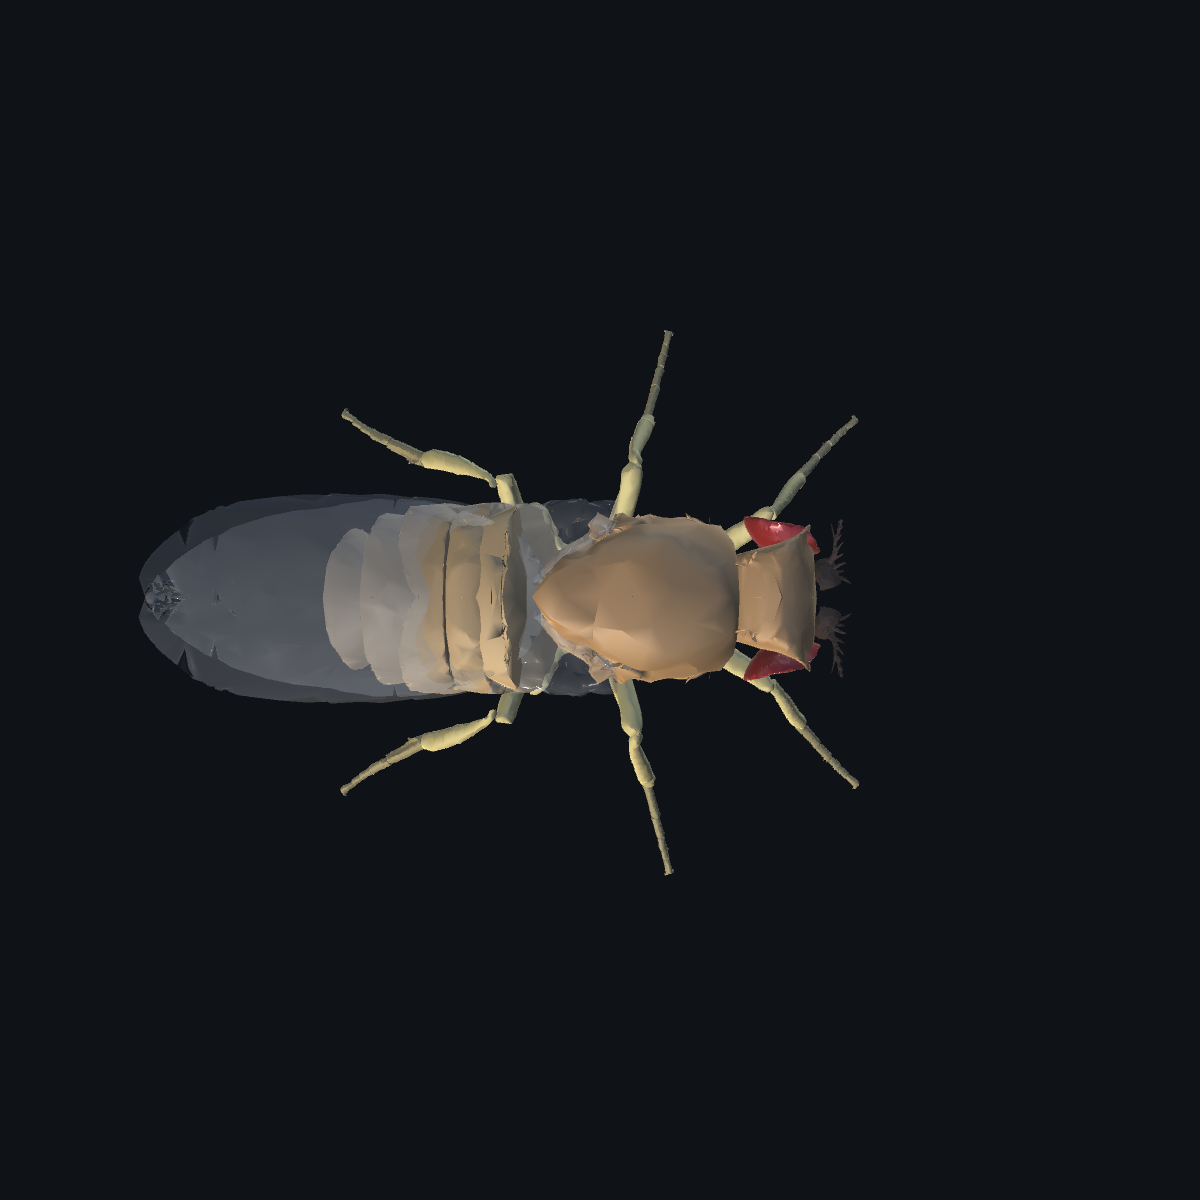
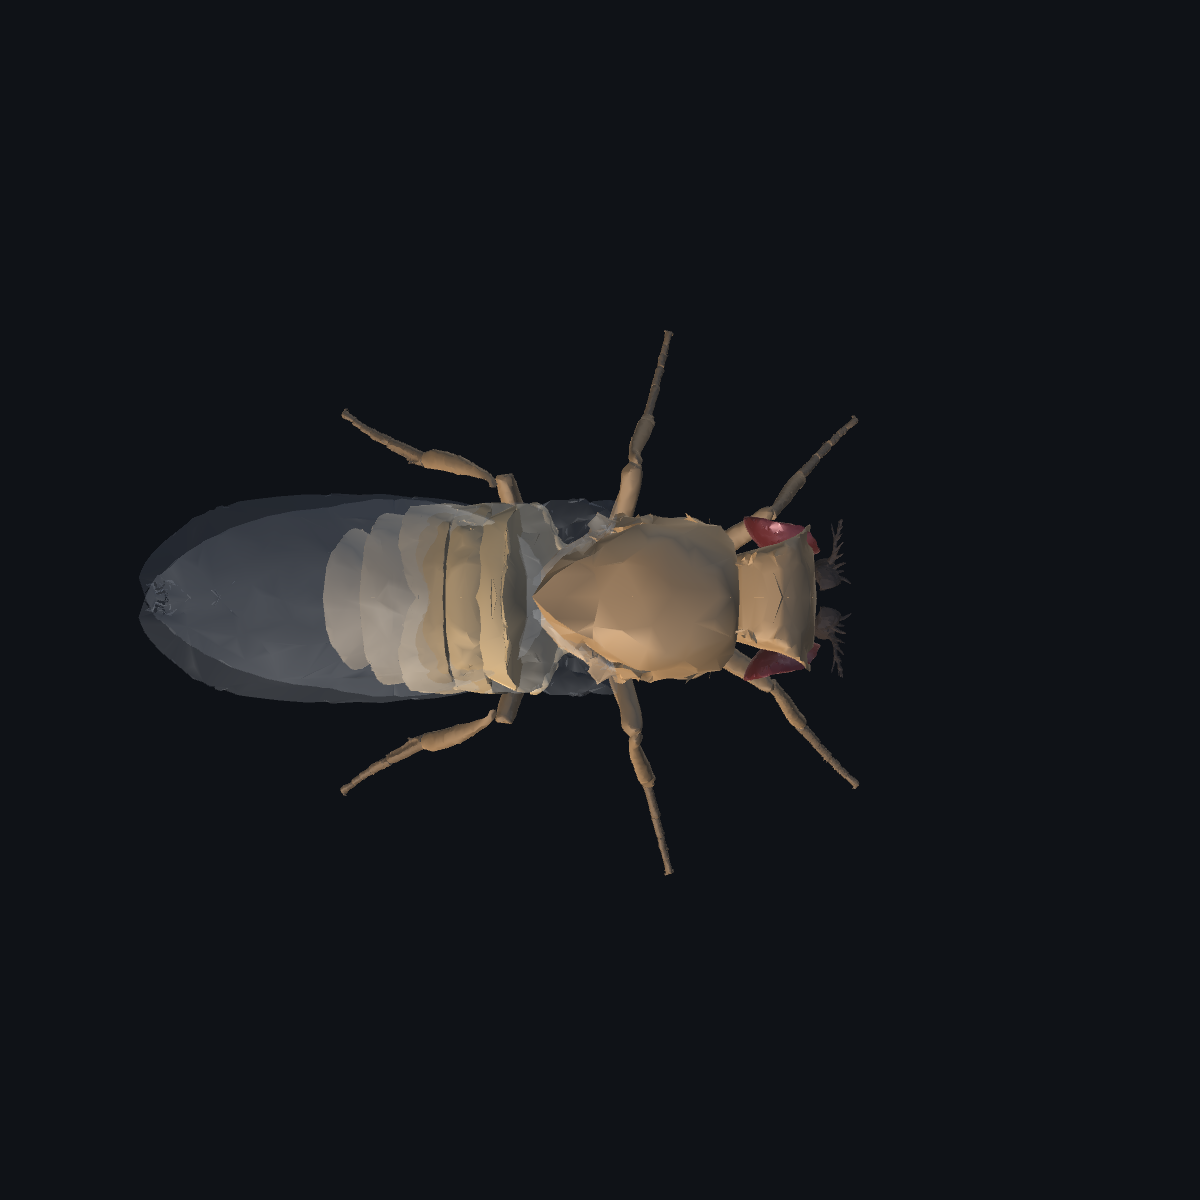
feat: material pass on the Drosophila palette
Ultimo passe visual. Geometria, transforms, hierarquia e dados cientificos
intactos -- so material, normal e luz.

PERNAS. Eram #EEDC82, amarelo palido; contra o #C68E4F do torax isso lia como
dois animais colados. Agora sao o proprio torax puxado 22% pro escuro: mesma
familia cromatica, um degrau abaixo do corpo. Tarso 28% mais escuro que o resto
da perna, dentro da faixa pedida.

OLHOS. Vinho/rubi (0,40 0,06 0,07) no lugar do vermelho vivo. O que faz o olho
ler como olho nao e a cor, e o contraste de resposta especular: lisura 0,66
contra ~0,34 da cuticula, com metallic 0,04 de realce. Sem emission.

Estrutura de omatideo NAO foi sugerida. Precisaria de mapa de normal ou de
detalhe, e as malhas nao tem UV -- saem do MuJoCo so com vertice e face, e sem
UV qualquer textura cai em lugar arbitrario. Inventar UV planar aqui seria
desenhar estrutura que ninguem mediu.

ASAS. Alfa 0,30 -> 0,22 e lisura 0,88 -> 0,55. Com 0,88 a asa virava uma faixa
especular quase branca de um lado e uma placa escura do outro, que e o oposto
de membranosa. Especular suave espalha o brilho ao longo da lamina. Segue em
alpha blend simples com ZWrite off na fila Transparent -- sao dois renderers
que se ordenam por distancia, sem artefato observado.

NERVURA continua nao existindo. Medido: a malha da asa e uma lamina fechada,
espessura 7,6% do comprimento, sem estrutura de nervura separada. O relevo que
ha e a borda e ruido de decimacao.
[…]

diff --git a/unity/DrosobotLab/Assets/Scripts/Lab/FlyAppearance.cs b/unity/DrosobotLab/Assets/Scripts/Lab/FlyAppearance.cs
@@ -86,18 +86,28 @@ namespace Drosobot.Lab
             haltere = Rgb(0.799f, 0.610f, 0.386f),                   // lower
         };
 
-        // Paleta Drosophila: tons claros de cuticula, olho tijolo, asa quase
+        // Paleta Drosophila: tons claros de cuticula, olho rubi, asa quase
         // incolor. Mais clara que a do flybody, que no fundo escuro do Lab
-        // tende a fechar. Escolhida a olho.
+        // tende a fechar. Escolhida a olho -- nao e reconstrucao medida.
         private static readonly Paleta DeDrosophila = new Paleta
         {
             cuticula = Rgb(0.78f, 0.56f, 0.31f),   // #C68E4F
             torax = Rgb(0.78f, 0.56f, 0.31f),      // #C68E4F
             abdomen = Rgb(0.87f, 0.70f, 0.44f),    // #DEB887
-            perna = Rgb(0.93f, 0.86f, 0.51f),      // #EEDC82
-            olho = Rgb(0.65f, 0.11f, 0.11f),       // #A61C1C
-            asa = new Color(0.92f, 0.94f, 0.95f, 0.30f),  // #EAF0F1
-            haltere = Rgb(0.93f, 0.86f, 0.51f),
+            // A perna era #EEDC82, amarelo palido: contra o #C68E4F do torax
+            // isso lia como dois animais colados. Agora e o proprio torax
+            // puxado 22% pro escuro -- mesma familia cromatica, um degrau
+            // abaixo do corpo, que e o que da continuidade da coxa ao tarso.
+            perna = Color.Lerp(Rgb(0.78f, 0.56f, 0.31f), Rgb(0.10f, 0.05f, 0.03f),
+                               0.22f),
+            // vinho/rubi: o #A61C1C anterior era vermelho vivo e chapado.
+            // Escurecido, que e como o olho composto responde a luz que nao
+            // bate de frente.
+            olho = Rgb(0.40f, 0.06f, 0.07f),
+            asa = new Color(0.86f, 0.89f, 0.92f, 0.22f),
+            // haltere acompanha o abdomen, nao a perna: e o botao palido atras
+            // do torax, nao apendice
+            haltere = Rgb(0.87f, 0.70f, 0.44f),
         };
 
         // Para onde as partes escuras puxam: cerdas, tarsos, banda posterior do
@@ -116,11 +126,13 @@ namespace Drosobot.Lab
             switch (modo)
             {
                 case Aparencia.Clay:
-                    return "cinza 0,5 -- a unica cor que o modelo carrega";
+                    return "DATA -- cinza 0,5, a cor que o modelo carrega";
                 case Aparencia.Flybody:
-                    return "valores do flybody (assets do FlyGym); atribuicao nossa";
+                    return "referencia visual upstream (assets do FlyGym)";
                 default:
-                    return "escolhida a olho; sem procedencia de medicao";
+                    // Nunca chamar de reconstrucao biologica medida: ninguem
+                    // mediu cor de mosca nenhuma pra chegar nestes valores.
+                    return "ASSUMPTION -- paleta de apresentacao";
             }
         }
 
@@ -174,20 +186,31 @@ namespace Drosobot.Lab
 
             if (cat == "olho")
             {
-                // olho composto: liso, mais brilhante que a cuticula. E o que
-                // mais denuncia uma mosca de verdade numa imagem.
-                Ajusta(m, p.olho, 0.78f);
+                // Olho composto. A lisura fica BEM acima da cuticula (0,66
+                // contra ~0,34): e o contraste de resposta especular entre os
+                // dois, mais que a cor, que faz o olho ler como olho.
+                //
+                // Estrutura de omatideo nao da pra sugerir aqui. Precisaria de
+                // mapa de normal ou de detalhe, e as malhas nao tem UV -- saem
+                // do MuJoCo so com vertice e face. Sem UV qualquer textura cai
+                // em lugar arbitrario. Fica no especular, que nao custa nada e
+                // nao inventa estrutura.
+                Ajusta(m, p.olho, 0.66f);
+                m.SetFloat("_Metallic", 0.04f);   // realce, nao aspecto de metal
             }
             else if (cat == "asa")
             {
-                // membrana: quase transparente e com especular alto, que e o
-                // que da a leitura de "fina" sem nervura nenhuma
-                Ajusta(m, p.asa, 0.88f);
+                // Membrana. Alfa mais baixo (0,22) e lisura MENOR (0,55) que a
+                // versao anterior: com 0,88 a asa virava uma faixa especular
+                // quase branca de um lado e uma placa escura do outro, que e o
+                // oposto de membranosa. Especular suave espalha o brilho ao
+                // longo da lamina.
+                Ajusta(m, p.asa, 0.55f);
                 Transparente(m);
             }
             else if (cat == "haltere")
             {
-                Ajusta(m, p.haltere, 0.35f);
+                Ajusta(m, p.haltere, 0.32f);
             }
             else if (cat == "cerda")
             {
@@ -197,11 +220,11 @@ namespace Drosobot.Lab
             {
                 // extremidade mais escura: e assim na mosca e ajuda a leitura
                 // de onde a perna termina contra o chao escuro
-                Ajusta(m, Color.Lerp(p.perna, Escuro, 0.35f), 0.30f);
+                Ajusta(m, Color.Lerp(p.perna, Escuro, 0.28f), 0.26f);
             }
             else if (cat == "perna")
             {
-                Ajusta(m, p.perna, 0.22f);
+                Ajusta(m, p.perna, 0.26f);
             }
             else if (cat.StartsWith("abdomen"))
             {
@@ -210,15 +233,17 @@ namespace Drosobot.Lab
                 // corpos do modelo, entao a faixa sai da geometria.
                 int i = cat.Length > 7 ? cat[7] - '0' : 2;
                 float t = Mathf.InverseLerp(2f, 6f, i);
-                Ajusta(m, Color.Lerp(p.abdomen, Escuro, 0.42f * t), 0.30f);
+                // abdomen mais FOSCO que o torax: no torax a cuticula e
+                // esclerotizada e acetinada, no abdomen e membranosa
+                Ajusta(m, Color.Lerp(p.abdomen, Escuro, 0.42f * t), 0.20f);
             }
             else if (cat == "torax")
             {
-                Ajusta(m, p.torax, 0.38f);
+                Ajusta(m, p.torax, 0.36f);      // acetinado, nao plastico
             }
             else
             {
-                Ajusta(m, p.cuticula, 0.30f);   // cabeca, rostro, o resto
+                Ajusta(m, p.cuticula, 0.33f);   // cabeca, rostro, o resto
             }
             return m;
         }
@@ -262,7 +287,9 @@ namespace Drosobot.Lab
             // perto de 1,2 pra que a cor na tela seja a cor do material.
             Luz(pai, "Key", new Color(1.00f, 0.96f, 0.90f), 0.80f, 38f, 40f);
             Luz(pai, "Fill", new Color(0.62f, 0.72f, 0.90f), 0.22f, 12f, -120f);
-            Luz(pai, "Rim", new Color(0.80f, 0.88f, 1.00f), 0.45f, -8f, 190f);
+            // rim so o bastante pra separar asa e perna do fundo; acima
+            // disso a imagem vira retrato de estudio e nao leitura de modelo
+            Luz(pai, "Rim", new Color(0.80f, 0.88f, 1.00f), 0.32f, -8f, 190f);
             RenderSettings.ambientMode = UnityEngine.Rendering.AmbientMode.Trilight;
             RenderSettings.ambientSkyColor = new Color(0.13f, 0.14f, 0.17f);
             RenderSettings.ambientEquatorColor = new Color(0.09f, 0.09f, 0.10f);

diff --git a/tools/export_fly_mesh.py b/tools/export_fly_mesh.py
@@ -42,16 +42,27 @@ SAIDA = RAIZ / "unity" / "DrosobotLab" / "Assets" / "Resources" / "Fly"
 sys.path.insert(0, str(RAIZ / "sim"))
 
 
+VINCO_GRAUS = 55.0
+"""Acima deste angulo entre faces vizinhas, a aresta NAO e suavizada.
+
+As malhas do NeuroMechFly sao decimadas -- no torax a mediana do angulo entre
+faces vizinhas e 36 graus e 46% das arestas passam de 40. Media cega sobre
+tudo derrete quina de verdade (a borda da asa, o encaixe das juntas); nao
+suavizar nada deixa a peca inteira facetada. O limite separa os dois casos sem
+tocar em vertice nenhum: a SILHUETA e identica, so muda a normal usada no
+sombreamento.
+"""
+
+
 def escreve_obj(caminho: Path, vertices: np.ndarray, faces: np.ndarray,
                 nome: str) -> None:
-    """OBJ com vertices, normais e faces. Sem UV -- nao ha textura.
+    """OBJ com vertices, normais por CANTO e faces. Sem UV -- nao ha textura.
 
-    As NORMAIS sao calculadas aqui, por media ponderada pela area dos
-    triangulos que tocam cada vertice. Sem elas a Unity deduz normais com um
-    angulo de suavizacao fixo, e como as malhas do NeuroMechFly sao decimadas
-    (~2000 faces por peca) o resultado fica facetado. A normal e derivada da
-    GEOMETRIA -- nao e aparencia inventada, e a mesma superficie que a fisica
-    usa, so que sombreada direito.
+    As NORMAIS sao calculadas aqui, com limite de vinco (ver VINCO_GRAUS): o
+    canto de uma face so soma as faces vizinhas cuja normal esta dentro do
+    limite. Assim a superficie fica lisa onde e lisa e a quina continua quina.
+    A normal e derivada da GEOMETRIA -- nao e aparencia inventada, e a mesma
+    superficie que a fisica usa, so que sombreada direito.
 
     Os VERTICES saem ja em eixos da Unity (Y pra cima), trocando Y e Z como
     `MujocoFrame.Pos` faz. Sem isso a malha fica em eixos do MuJoCo pendurada
@@ -69,26 +80,51 @@ def escreve_obj(caminho: Path, vertices: np.ndarray, faces: np.ndarray,
     fu = faces[:, [0, 2, 1]]
 
     # normal de cada face, com modulo proporcional a area (o produto vetorial
-    # ja da 2x a area), somada nos vertices: a ponderacao por area evita que
-    # um triangulo minusculo puxe a normal tanto quanto um grande
+    # ja da 2x a area): a ponderacao por area evita que um triangulo minusculo
+    # puxe a normal tanto quanto um grande
     a, b, c = vu[fu[:, 0]], vu[fu[:, 1]], vu[fu[:, 2]]
-    nf = np.cross(b - a, c - a)
-    nv = np.zeros_like(vu)
-    for k in range(3):
-        np.add.at(nv, fu[:, k], nf)
-    comp = np.linalg.norm(nv, axis=1, keepdims=True)
-    nv = np.divide(nv, comp, out=np.zeros_like(nv), where=comp > 1e-12)
+    nf_area = np.cross(b - a, c - a)
+    comp = np.linalg.norm(nf_area, axis=1, keepdims=True)
+    nf = np.divide(nf_area, comp, out=np.zeros_like(nf_area), where=comp > 1e-12)
+
+    # faces que tocam cada vertice
+    incidentes = [[] for _ in range(len(vu))]
+    for k, tri in enumerate(fu):
+        for iv in tri:
+            incidentes[iv].append(k)
+
+    cos_limite = np.cos(np.radians(VINCO_GRAUS))
+    normais, indice = [], {}
+    cantos = np.zeros((len(fu), 3), dtype=np.int64)
+    for k, tri in enumerate(fu):
+        for canto, iv in enumerate(tri):
+            soma = np.zeros(3)
+            for g in incidentes[iv]:
+                # o limite de vinco entra aqui: a face vizinha so participa da
+                # media se estiver do mesmo lado da quina
+                if g == k or nf[g].dot(nf[k]) >= cos_limite:
+                    soma += nf_area[g]
+            n = np.linalg.norm(soma)
+            n = soma / n if n > 1e-12 else nf[k]
+            # dedupe: em regiao lisa os cantos compartilham a mesma normal, e
+            # sem isto o arquivo triplica de tamanho a toa
+            chave = (round(float(n[0]), 4), round(float(n[1]), 4),
+                     round(float(n[2]), 4))
+            if chave not in indice:
+                indice[chave] = len(normais)
+                normais.append(chave)
+            cantos[k, canto] = indice[chave]
 
     linhas = [f"# {nome} -- NeuroMechFly, exportado do modelo compilado",
               f"# {len(vertices)} vertices, {len(faces)} faces",
               "# vertices em eixos da Unity (Y pra cima); winding invertido",
-              "# normais por media ponderada pela area, calculadas na exportacao",
+              f"# normais por canto, limite de vinco {VINCO_GRAUS:.0f} graus",
               f"o {nome}"]
     linhas += [f"v {v[0]:.6f} {v[1]:.6f} {v[2]:.6f}" for v in vu]
-    linhas += [f"vn {n[0]:.6f} {n[1]:.6f} {n[2]:.6f}" for n in nv]
-    # OBJ indexa a partir de 1; normal por vertice, entao v//vn com o mesmo indice
-    linhas += [f"f {f[0]+1}//{f[0]+1} {f[1]+1}//{f[1]+1} {f[2]+1}//{f[2]+1}"
-               for f in fu]
+    linhas += [f"vn {n[0]:.4f} {n[1]:.4f} {n[2]:.4f}" for n in normais]
+    # OBJ indexa a partir de 1
+    linhas += [f"f {f[0]+1}//{c[0]+1} {f[1]+1}//{c[1]+1} {f[2]+1}//{c[2]+1}"
+               for f, c in zip(fu, cantos)]
     caminho.write_text("\n".join(linhas) + "\n", encoding="utf-8")
 
 

diff --git a/tools/compare_palettes.py b/tools/compare_palettes.py
@@ -1,0 +1,66 @@
+"""Monta a tira comparativa Clay | Flybody | Drosophila.
+
+As tres vem de `CaptureBodyShots`, na MESMA pose e na MESMA camera (bind pose,
+perspectiva, yaw -40 pitch 22). So o esquema de cor muda -- e esse o ponto: com
+pose ou enquadramento diferente a comparacao nao diria nada sobre material.
+
+    python tools/compare_palettes.py
+"""
+
+from pathlib import Path
+
+from PIL import Image, ImageDraw, ImageFont
+
+RAIZ = Path(__file__).resolve().parents[1]
+IMAGENS = RAIZ / "docs" / "images"
+
+PAINEIS = [
+    ("fly_clay_perspectiva.png", "CLAY", "DATA - cinza 0,5 do modelo"),
+    ("fly_flybody_perspectiva.png", "FLYBODY", "referencia visual upstream"),
+    ("fly_bindpose_perspectiva.png", "DROSOPHILA", "ASSUMPTION - apresentacao"),
+]
+
+LADO = 800          # cada painel, depois de reduzir
+FAIXA = 64          # altura da tarja de rotulo
+
+
+def fonte(tamanho: int):
+    # Arial existe em qualquer Windows; em outro sistema cai no bitmap padrao,
+    # que fica pequeno mas nao quebra a geracao
+    for caminho in (r"C:\Windows\Fonts\arialbd.ttf", r"C:\Windows\Fonts\arial.ttf"):
+        try:
+            return ImageFont.truetype(caminho, tamanho)
+        except OSError:
+            continue
+    return ImageFont.load_default()
+
+
+def main() -> None:
+    faltando = [n for n, _, _ in PAINEIS if not (IMAGENS / n).exists()]
+    if faltando:
+        raise SystemExit(
+            "faltam capturas: " + ", ".join(faltando) + "\n"
+            "gere com: Unity.exe -batchmode -quit -projectPath unity\\DrosobotLab "
+            "-executeMethod Drosobot.EditorTools.CaptureBodyShots.Capturar")
+
+    tira = Image.new("RGB", (LADO * len(PAINEIS), LADO + FAIXA), (11, 12, 16))
+    desenho = ImageDraw.Draw(tira)
+    f_titulo, f_nota = fonte(30), fonte(20)
+
+    for i, (arquivo, titulo, nota) in enumerate(PAINEIS):
+        img = Image.open(IMAGENS / arquivo).convert("RGB")
+        img = img.resize((LADO, LADO), Image.LANCZOS)
+        x = i * LADO
+        tira.paste(img, (x, 0))
+        desenho.text((x + 18, LADO + 10), titulo, font=f_titulo, fill=(235, 238, 245))
+        desenho.text((x + 18, LADO + 40), nota, font=f_nota, fill=(150, 156, 168))
+        if i:
+            desenho.line([(x, 0), (x, LADO + FAIXA)], fill=(40, 43, 50), width=2)
+
+    saida = IMAGENS / "fly_paletas_comparacao.png"
+    tira.save(saida)
+    print(f"salvo em {saida}  ({tira.width}x{tira.height})")
+
+
+if __name__ == "__main__":
+    main()

diff --git a/docs/UNITY_BODY_COORDINATES.md b/docs/UNITY_BODY_COORDINATES.md
@@ -192,11 +192,17 @@ Saída em `docs/images/fly_bindpose_{perspectiva,lateral,topo,frente}.png`. A
 referência de comparação é o render do próprio MuJoCo pelo `mujoco.Renderer`, do
 mesmo modelo compilado.
 
-O OBJ leva normais por vértice, calculadas na exportação por média das faces
-ponderada pela área. Sem elas a Unity deduz normais com um ângulo de suavização
-fixo e, como as malhas do NeuroMechFly são decimadas (~2.000 faces por peça), o
-resultado ficava facetado. A normal vem da **geometria**, não é aparência
-inventada — é a mesma superfície que a física usa, só sombreada direito.
+O OBJ leva normais por **canto**, com limite de vinco de 55°
+(`VINCO_GRAUS` em `tools/export_fly_mesh.py`): o canto de uma face só soma as
+faces vizinhas cuja normal está dentro do limite.
+
+Isso importa porque as malhas são decimadas — no tórax a mediana do ângulo entre
+faces vizinhas é 36° e 46% das arestas passam de 40°. Média cega sobre tudo
+derrete quina de verdade (a borda da asa, o encaixe das juntas); não suavizar
+nada deixa a peça inteira facetada.
+
+A normal vem da **geometria** e nenhum vértice é tocado: a silhueta é idêntica,
+só muda a normal usada no sombreamento.
 
 ### Cor é outra coisa
 
